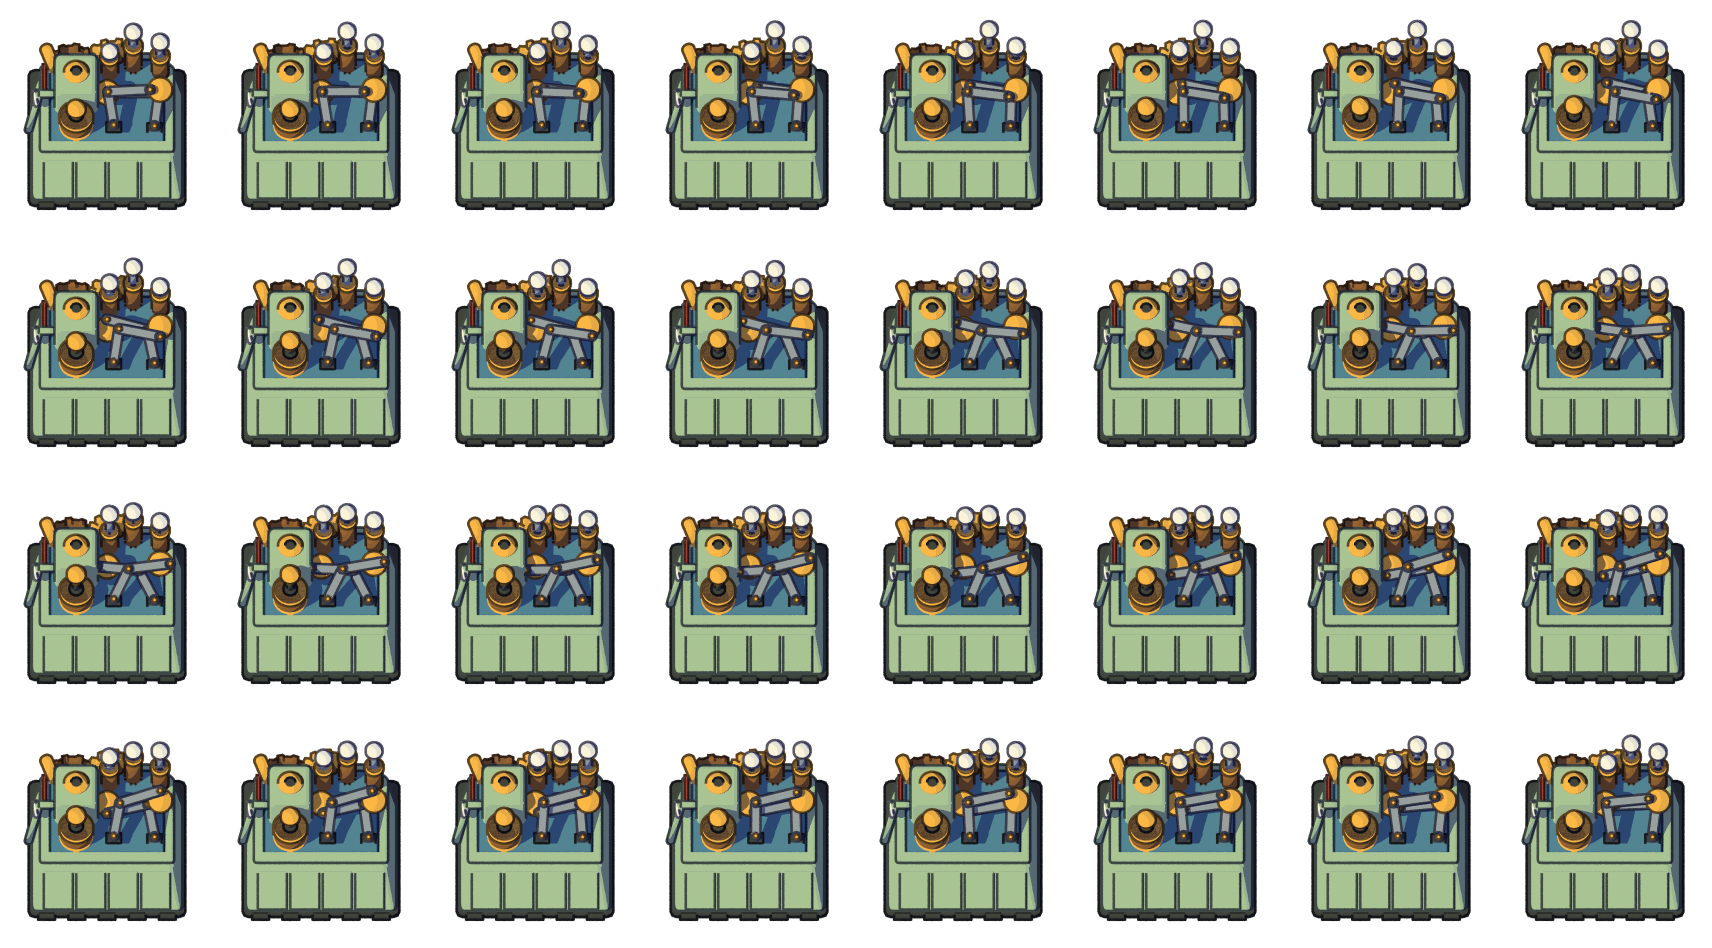
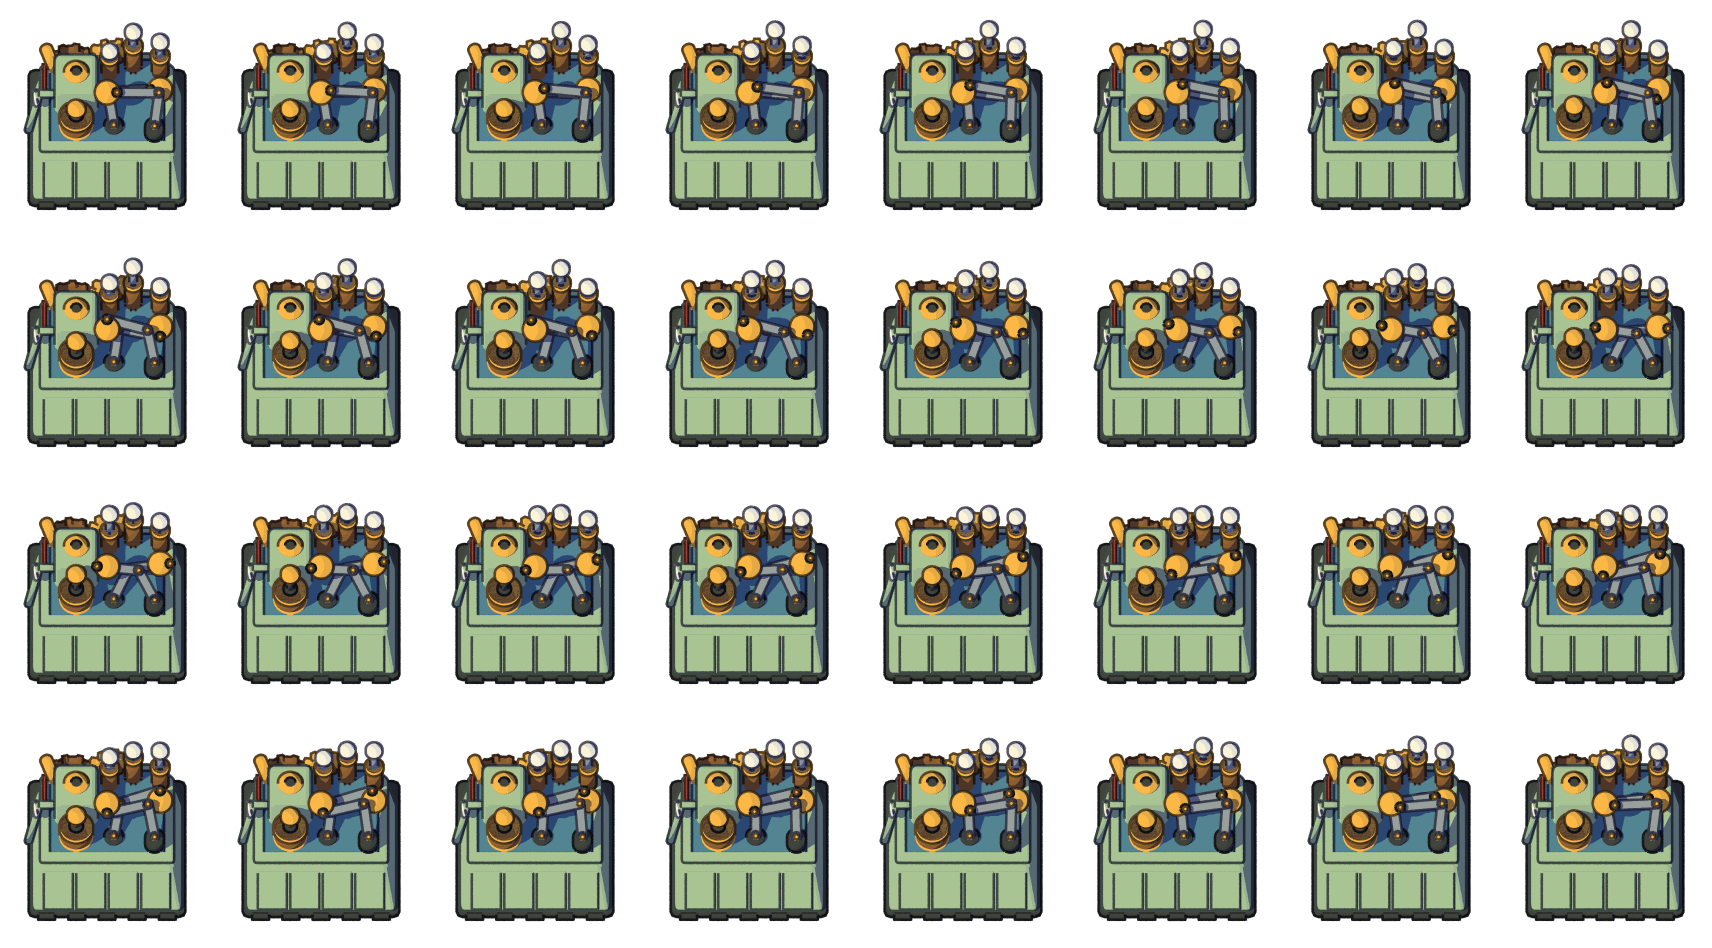
Cel-shading : genouillères des assembleurs 2 et 3 retouchées (manetons sur les disques, patins à plat, superposition)
La bielle passe derrière son disque de manivelle, on ne voit tourner que le maneton ; pivots fixés sur des patins
ronds posés à plat ; la genouillère de gauche, un peu surélevée, passe au-dessus de celle de droite.

diff --git a/celshading/blender/assembler.py b/celshading/blender/assembler.py
@@ -147,19 +147,26 @@ def mecanisme_bras(phase, zt, niveau, laiton, cuivre, sombre, blanc):
     à la caméra. Niveau 3 : trois grands pistons verticaux à l'arrière."""
     acier = couleur("acier", ACIER)
     y, z0 = -0.5, zt + 0.15                       # bas du plan penché : avant du plateau
-    avant = set(bpy.data.objects)
-    # la seconde genouillère, et la première barre de chacune, un peu vers la caméra (une fois le plan penché,
-    # « en retrait » passerait sous le plateau) : jamais deux faces dans le même plan
-    for dy, manivelle, pivot, decalage in ((0.0, (0.0, z0 + 0.7), (0.85, z0 + 0.1), 0.0),
-                                           (-0.24, (0.95, z0 + 0.75), (0.12, z0 + 0.12), 180.0)):
-        yy = y + dy
-        manivelle, pivot = (manivelle[0], yy - 0.11, manivelle[1]), (pivot[0], yy, pivot[1])
-        maneton, coude = genou(manivelle, 0.18, phase * 360 + decalage, pivot, 0.75, 0.6)
-        lisse(cyl((manivelle[0], yy, manivelle[2]), 0.22, 0.1, laiton, verts=40, rot=(90, 0, 0)))   # plateau
-        arrondi(box((pivot[0], yy + 0.06, pivot[2] - 0.04), (0.26, 0.12, 0.18), sombre), 0.04, 2)   # chape du pivot
-        barre(maneton, coude, 0.17, 0.1, acier, laiton)
-        barre((coude[0], yy, coude[2]), pivot, 0.17, 0.1, acier, laiton)
-    incliner([o for o in bpy.data.objects if o not in avant], (0, y, z0), BRAS_INCLINAISON)
+    # Profondeurs (vers la caméra = négatif, avant de pencher le plan ; le plan penché, c'est aussi « plus haut ») :
+    # par genouillère, de l'arrière vers l'avant : bielle du pivot, bielle de la manivelle, disque de la manivelle,
+    # maneton (rond sombre à cœur de laiton) ; seul le maneton se voit tourner sur le disque. Celle de gauche est
+    # posée au-dessus de celle de droite. Jamais deux faces dans le même plan.
+    for d, (cx, cz), (gx, gz), decalage in ((-0.25, (0.0, 0.7), (0.85, 0.1), 0.0),
+                                            (0.0, (0.95, 0.75), (0.12, 0.12), 180.0)):
+        yy = y + d
+        a = lambda p, dd: (p[0], yy + dd, p[2])
+        avant = set(bpy.data.objects)
+        maneton, coude = genou((cx, yy, z0 + cz), 0.18, phase * 360 + decalage, (gx, yy, z0 + gz), 0.75, 0.6)
+        barre(a(coude, 0.0), (gx, yy, z0 + gz), 0.17, 0.08, acier, laiton)
+        barre(a(maneton, -0.05), a(coude, -0.05), 0.17, 0.08, acier, laiton)
+        lisse(cyl((cx, yy - 0.12, z0 + cz), 0.22, 0.05, laiton, verts=48, rot=(90, 0, 0)))     # disque
+        lisse(cyl(a(maneton, -0.17), 0.085, 0.03, sombre, verts=32, rot=(90, 0, 0)))          # maneton
+        lisse(cyl(a(maneton, -0.19), 0.045, 0.03, laiton, verts=24, rot=(90, 0, 0)))
+        px, py, pz = incliner([o for o in bpy.data.objects if o not in avant], (0, y, z0), BRAS_INCLINAISON,
+                              (gx, yy, z0 + gz))
+        # fixation du pivot : patin rond posé à plat sur le plateau (socle bas pour la genouillère surélevée)
+        h = max(0.06, pz - z0)
+        lisse(cyl((px, py, z0 + h / 2), 0.17, h, sombre, verts=40))
     if niveau == 3:
         # trois grands pistons verticaux à l'arrière, décalés d'un tiers de boucle : chemise de cuivre, tige d'acier,
         # tête blanche

diff --git a/celshading/concept/descriptions/assembleurs.md b/celshading/concept/descriptions/assembleurs.md
@@ -34,7 +34,10 @@ plateau ; engrenages au fond ; deux cylindres blancs.
 **Cel-shading.** Corps bleu clair, plateau brun cuivré (contraste chaud avec le bleu). À droite : **deux genouillères
 croisées**, comme les bras de l'original (pas de pince : essayée le 12 octobre, écartée par Bastien) : barres plates
 d'acier à bouts arrondis, axes de laiton ; chacune, menée par une manivelle de laiton (un tour par boucle), plie et
-déplie son genou entre la manivelle et un pivot fixe sur le plateau ; les deux travaillent en opposition. Mobiles :
+déplie son genou entre la manivelle et un pivot fixe ; les deux travaillent en opposition. Retouches de
+Bastien : la bielle passe derrière son disque, dont on ne voit tourner que le maneton (rond sombre à cœur de laiton) ;
+fixations des pivots en patins ronds posés à plat sur le plateau ; celle de gauche passe au-dessus de celle de droite
+(un peu surélevée, sur un socle rond). Mobiles :
 genouillères, manivelles, piston du tambour, engrenages du fond (plus bas qu'au 1 : le cadre de l'original est moins
 haut).
 
